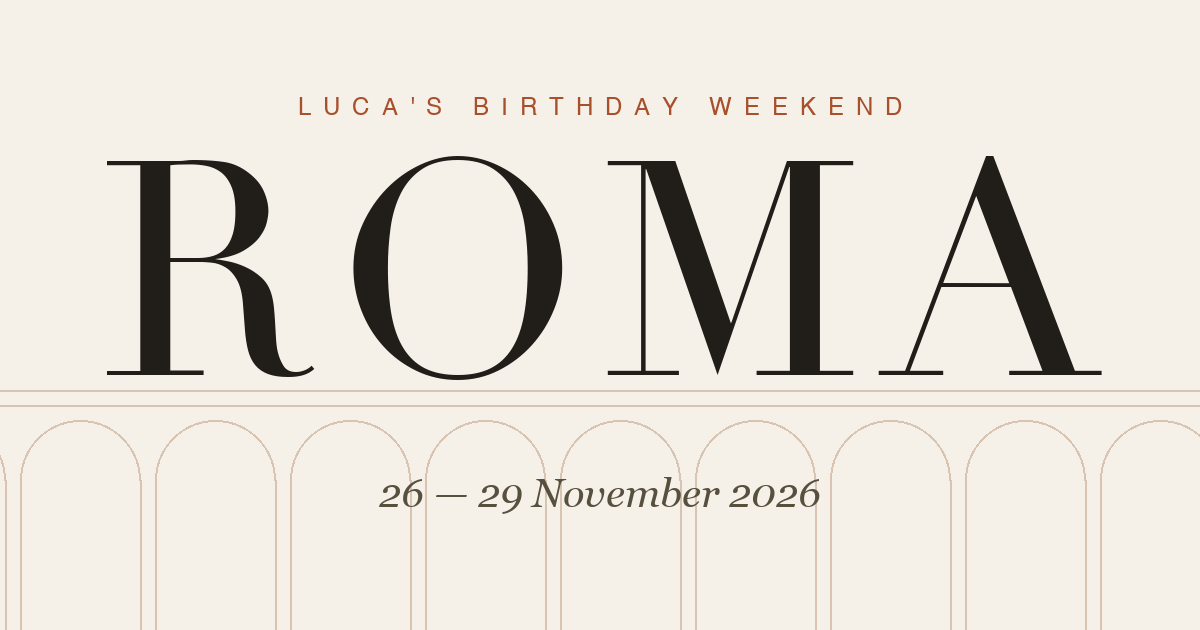
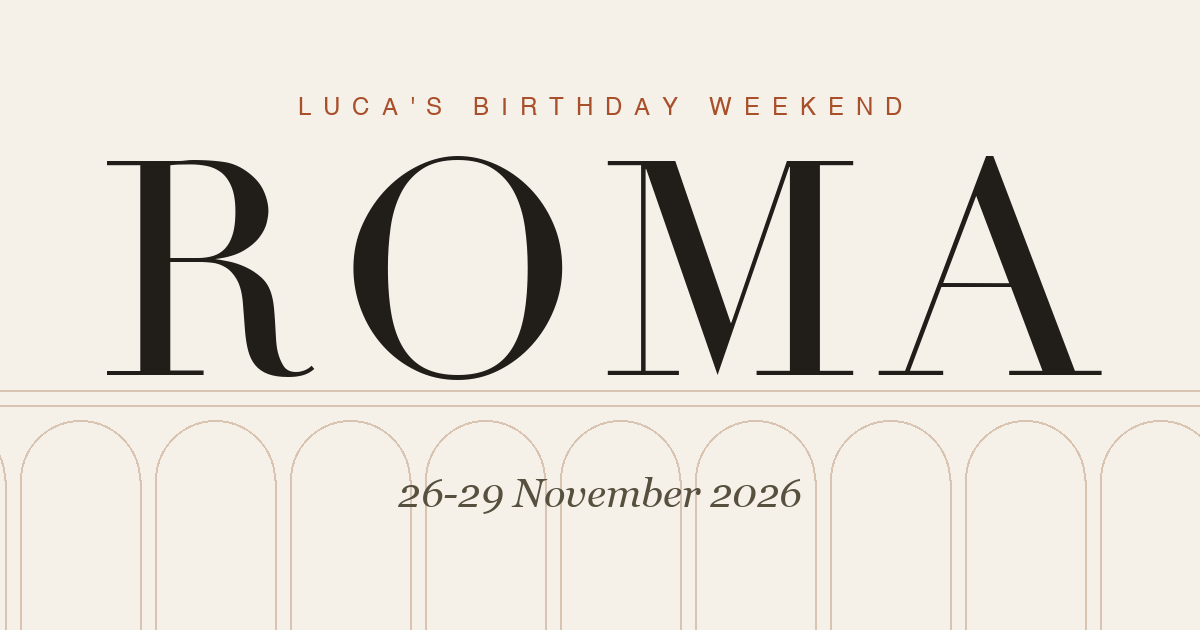
No em dashes anywhere, answer reset, hard refresh, phone-only note

Changed region(s): [[0.3083, 0.754, 0.6783, 0.8143]]

diff --git a/index.html b/index.html
@@ -4,10 +4,10 @@
 <meta charset="utf-8">
 <meta name="viewport" content="width=device-width, initial-scale=1, viewport-fit=cover">
 <title>Roma · Luca's Birthday Weekend</title>
-<meta name="description" content="Luca's birthday weekend in Rome — 26–29 November 2026. Are you in?">
+<meta name="description" content="Luca's birthday weekend in Rome, 26-29 November 2026. Are you in?">
 <meta property="og:type" content="website">
-<meta property="og:title" content="Roma — Luca's Birthday Weekend">
-<meta property="og:description" content="26–29 November 2026. Are you in?">
+<meta property="og:title" content="Roma, Luca's Birthday Weekend">
+<meta property="og:description" content="26-29 November 2026. Are you in?">
 <meta property="og:url" content="https://luca1997sb.github.io/rome-birthday/">
 <meta property="og:image" content="https://luca1997sb.github.io/rome-birthday/og.png">
 <meta property="og:image:width" content="1200">
@@ -24,7 +24,7 @@
 </head>
 <body>
 <title>Roma · Luca's Birthday Weekend</title>
-<meta name="description" content="Luca's birthday weekend in Rome — 26–29 November 2026. Details & RSVP.">
+<meta name="description" content="Luca's birthday weekend in Rome, 26-29 November 2026. Details & RSVP.">
 <style>
   :root{
     --paper:#f6f1e8;
@@ -527,7 +527,7 @@
     <a href="#program">Program</a>
     <a href="#hotels">Hotels</a>
     <a href="#info">Info</a>
-    <button class="music-link" id="musicbtn" aria-label="Play music — Sì, viaggiare by Lucio Battisti"><span class="note">♪</span> <span id="musiclabel">Play music</span></button>
+    <button class="music-link" id="musicbtn" aria-label="Play music: Sì, viaggiare by Lucio Battisti"><span class="note">♪</span> <span id="musiclabel">Play music</span></button>
     <a class="cta" href="#rsvp">RSVP</a>
   </nav>
 </header>
@@ -554,7 +554,7 @@
   <div class="kicker">You are warmly invited to</div>
   <h1><span>R</span><span>O</span><span>M</span><span>A</span></h1>
   <div class="dates">Luca's birthday weekend</div>
-  <div class="when">26 — 29 November 2026</div>
+  <div class="when">26-29 November 2026</div>
   <a class="scrollcue" href="#invito">Scroll</a>
 </div>
 
@@ -564,8 +564,8 @@
   <div class="intro-grid">
     <div class="reveal">
       <p class="lead">I'm celebrating my birthday in Rome this year, and it would be really nice if you came.</p>
-      <p>The weekend starts with a late lunch on Thursday the 26th — so if you can, arrive in time to join. We head home Sunday the 29th of November. Program and hotel recommendations will follow — for now, just let me know if you can make it.</p>
-      <p style="font-family:var(--serif);font-style:italic;font-size:1.05rem;margin-top:1.2rem">— Luca</p>
+      <p>The weekend starts with a late lunch on Thursday the 26th, so if you can, arrive in time to join. We head home Sunday the 29th of November. Program and hotel recommendations will follow. For now, just let me know if you can make it.</p>
+      <p style="font-family:var(--serif);font-style:italic;font-size:1.05rem;margin-top:1.2rem">Luca</p>
     </div>
     <div class="guest-card reveal d1">
       <h3>The table</h3>
@@ -596,7 +596,7 @@
   <h2 class="sec-title reveal">Are you <em>in?</em></h2>
   <div class="rsvp-wrap reveal">
     <h3>First, who are you?</h3>
-    <p class="sub">Pick your name, then give me a yes or a no — your answer goes straight to Luca.</p>
+    <p class="sub">Pick your name, then give me a yes or a no. Your answer goes straight to Luca.</p>
     <div class="chips" id="namechips"></div>
     <div class="yesno">
       <button class="yn yes" id="btnyes">Yes, I'm in</button>
@@ -604,7 +604,7 @@
       <button class="yn no" id="btnno">Sadly can't</button>
     </div>
     <div id="status"><span class="none">Waiting on you…</span></div>
-    <button class="applink" id="applink" hidden>Get a ping when new plans land — add the app →</button>
+    <button class="applink" id="applink" hidden>Get a ping when new plans land. Add the app →</button>
 
     <div class="tally">
       <div class="tally-t">The tally</div>
@@ -621,7 +621,7 @@
     <div class="soon reveal">
       <span class="badge dot">In the works</span>
       <h4>The program</h4>
-      <p>A few things are already certain — the rest of the schedule lands here once it's set.</p>
+      <p>A few things are already certain. The rest of the schedule lands here once it's set.</p>
       <div class="teasers">
         <span class="teaser">Golf</span>
         <span class="teaser">Padel</span>
@@ -632,7 +632,7 @@
     <div class="soon reveal d1">
       <span class="badge">Save the dates</span>
       <h4>Flights</h4>
-      <p>It all begins with a late lunch on Thursday 26 November — aim to land by early afternoon. Fly home Sunday 29 November. Flight recommendations to follow.</p>
+      <p>It all begins with a late lunch on Thursday 26 November. Aim to land by early afternoon. Fly home Sunday 29 November. Flight recommendations to follow.</p>
     </div>
   </div>
   <figure class="photo wide reveal" style="margin-top:1.2rem">
@@ -653,7 +653,7 @@
     <div class="soon reveal">
       <span class="badge dot">In the works</span>
       <h4>Recommendations</h4>
-      <p>A short list of good places to stay — central, walkable, different budgets — will appear here soon.</p>
+      <p>A short list of good places to stay will appear here soon: central, walkable, a range of budgets.</p>
     </div>
   </div>
 
@@ -661,11 +661,11 @@
     <div class="map-head">
       <div>
         <div class="map-title">Rome, <em>roughly</em></div>
-        <div class="map-sub">Where the weekend will happen — activities and hotels get pinned in orange as they're announced. Tap a dot to open it in Maps.</div>
+        <div class="map-sub">Where the weekend will happen. Activities and hotels get pinned in orange as they're announced. Tap a dot to open it in Maps.</div>
       </div>
     </div>
     <div id="leafmap">
-      <div class="fallback">The map loads on the live site — see you in Rome.</div>
+      <div class="fallback">The map loads on the live site. See you in Rome.</div>
     </div>
   </div>
 </section>
@@ -676,13 +676,13 @@
   <div class="info-grid">
     <div class="info-card reveal">
       <h4>The weather</h4>
-      <p class="hint">What 26–29 November has looked like in Rome over the last ten years.</p>
+      <p class="hint">What 26-29 November has looked like in Rome over the last ten years.</p>
       <div class="wx-row">
         <div class="wx"><div class="n">14<sup>°</sup></div><div class="l">By day</div></div>
         <div class="wx"><div class="n">7<sup>°</sup></div><div class="l">At night</div></div>
         <div class="wx"><div class="n">16:40</div><div class="l">Sunset</div></div>
       </div>
-      <p class="wx-note">Mild days, crisp evenings — and some rain fell on these dates in nine of the last ten years, so pack accordingly.</p>
+      <p class="wx-note">Mild days, crisp evenings. Some rain fell on these dates in nine of the last ten years, so pack accordingly.</p>
       <div class="wx-live">
         <div class="wx-live-t">Rome, the next 14 days</div>
         <div class="wx-strip" id="wxstrip"><span class="wx-loading">Checking the sky over Rome…</span></div>
@@ -726,7 +726,7 @@
 
 <footer>
   <div class="big">Ci vediamo a Roma.</div>
-  <div class="small">S·P·Q·R &nbsp;·&nbsp; 26 — 29 November 2026</div>
+  <div class="small">S·P·Q·R &nbsp;·&nbsp; 26-29 November 2026</div>
 </footer>
 
 <div id="musicframe" aria-hidden="true"></div>
@@ -753,6 +753,14 @@
   if (GUESTS.indexOf(guest) === -1) guest = null;
 
   function ansKey(name){ return "roma26.answer." + name; }
+
+  // one-time reset: clear any stored answers from the testing phase
+  try {
+    if (!localStorage.getItem("roma26.reset1")) {
+      GUESTS.forEach(function(n){ localStorage.removeItem(ansKey(n)); });
+      localStorage.setItem("roma26.reset1", "1");
+    }
+  } catch(e){}
   function getAnswer(){
     if (!guest) return null;
     var a = null;
@@ -803,16 +811,16 @@
     if (!guest || !getAnswer()) return;
     var a = getAnswer();
     var word = a === "yes" ? "YES" : a === "maybe" ? "MAYBE" : "NO";
-    var text = a === "yes" ? "Yes, I'm in" : a === "maybe" ? "Maybe — still sorting things out" : "Sadly can't";
+    var text = a === "yes" ? "Yes, I'm in" : a === "maybe" ? "Maybe, still sorting things out" : "Sadly can't";
     postForm({
-      _subject: "Roma 2026 RSVP — " + guest + ": " + word,
+      _subject: "Roma 2026 RSVP: " + guest + " " + word,
       name: guest,
       answer: text
     }).then(function(r){
       if (!r.ok) throw new Error();
-      statusEl.textContent += " — sent to Luca ✓";
+      statusEl.textContent += " · sent to Luca ✓";
     }).catch(function(){
-      statusEl.textContent += " — saved here, but tell Luca directly too.";
+      statusEl.textContent += " · saved here, but tell Luca directly too.";
     });
   }
 
@@ -824,7 +832,7 @@
   btnMb.addEventListener("click", function(){
     if (!guest) return needName();
     if (CONFIRMED.indexOf(guest) !== -1) {
-      statusEl.textContent = "Too late — you're already booked in.";
+      statusEl.textContent = "Too late, you're already booked in.";
       return;
     }
     setAnswer("maybe"); render(); sendRSVP();
@@ -832,7 +840,7 @@
   btnNo.addEventListener("click", function(){
     if (!guest) return needName();
     if (CONFIRMED.indexOf(guest) !== -1) {
-      statusEl.textContent = "Too late — you're already booked in.";
+      statusEl.textContent = "Too late, you're already booked in.";
       return;
     }
     setAnswer("no"); render(); sendRSVP();
@@ -883,17 +891,17 @@
     if (!guest) {
       statusEl.innerHTML = '<span class="none">Waiting on you…</span>';
     } else if (guest === "Luca") {
-      statusEl.textContent = "It's your party — you're in by default.";
+      statusEl.textContent = "It's your party, you're in by default.";
     } else if (CONFIRMED.indexOf(guest) !== -1) {
-      statusEl.textContent = guest + " — you're already confirmed. 🥂";
+      statusEl.textContent = guest + ", you're already confirmed. 🥂";
     } else if (a === "yes") {
-      statusEl.textContent = guest + " — see you in Rome. 🥂";
+      statusEl.textContent = guest + ", see you in Rome. 🥂";
     } else if (a === "maybe") {
-      statusEl.textContent = guest + " — noted, we'll hold your seat.";
+      statusEl.textContent = guest + ", noted, we'll hold your seat.";
     } else if (a === "no") {
-      statusEl.textContent = guest + " — you'll be missed. Reconsider?";
+      statusEl.textContent = guest + ", you'll be missed. Reconsider?";
     } else {
-      statusEl.innerHTML = '<span class="none">Ciao ' + guest + " — yes or no?</span>";
+      statusEl.innerHTML = '<span class="none">Ciao ' + guest + ", yes or no?</span>";
     }
   }
 
@@ -923,7 +931,7 @@
     el.innerHTML = "";
     var map = L.map(el, { scrollWheelZoom:false, zoomControl:true })
       .setView([41.8975, 12.4809], 14);
-    // on phones, one-finger drag would trap page scrolling — keep pinch-zoom only
+    // on phones, one-finger drag would trap page scrolling; keep pinch-zoom only
     if (window.matchMedia && window.matchMedia("(pointer: coarse)").matches) {
       map.dragging.disable();
     }
@@ -985,7 +993,7 @@
   /* ------- app install + push notifications ------- */
   var VAPID = "BHS03bWYOl3hiJuQsChM2bKO-j3UV0Kbw9TmGY2v15Tosl_qpFTfaHwXseTagrF5NmiN-8XxyWnx9khhArrhMvQ";
   if ("serviceWorker" in navigator) {
-    navigator.serviceWorker.register("sw.js").catch(function(){});
+    navigator.serviceWorker.register("sw.js", { updateViaCache: "none" }).catch(function(){});
   }
   // clear the app-icon badge whenever the app is opened or comes to the foreground
   function clearBadge(){
@@ -1031,7 +1039,7 @@
         reg.pushManager.subscribe({ userVisibleOnly: true, applicationServerKey: urlB64(VAPID) })
           .then(function(sub){
             postForm({
-              _subject: "Roma 2026 push sub — " + (guest || "unknown"),
+              _subject: "Roma 2026 push sub: " + (guest || "unknown"),
               name: guest || "unknown",
               subscription: JSON.stringify(sub)
             }).then(function(r){ done(r.ok ? "ok" : "err"); })
@@ -1048,26 +1056,26 @@
   function buildModalBody(){
     if (isiOS && !isStandalone) {
       mBody.innerHTML =
-        '<p>Put this page on your Home Screen and it becomes the weekend\'s app — with a gentle ping when new plans land. In <b>Safari</b>:</p>' +
+        '<p>Put this page on your Home Screen and it becomes the weekend\'s app, with a gentle ping when new plans land. In <b>Safari</b>:</p>' +
         '<ol><li>Tap <b>Share</b> at the bottom (the square with the arrow&nbsp;<span style="font-family:-apple-system">&#x2BAD;</span>)</li>' +
         '<li>Scroll down, choose <b>Add to Home Screen</b>, tap <b>Add</b></li>' +
-        '<li>Open <b>Roma 2026</b> from your Home Screen once — it will ask to allow notifications</li></ol>' +
-        '<p class="m-note">Opened this from WhatsApp? Tap <b>&#8943;</b> top-right → <b>Open in Safari</b> first. And iPhones only allow notifications for pages on the Home Screen — Apple\'s rule, not ours.</p>';
+        '<li>Open <b>Roma 2026</b> from your Home Screen once and it will ask to allow notifications</li></ol>' +
+        '<p class="m-note">Opened this from WhatsApp? Tap <b>&#8943;</b> top-right → <b>Open in Safari</b> first. And iPhones only allow notifications for pages on the Home Screen. Apple\'s rule, not ours.</p>';
       return;
     }
     var installBtn = (!isStandalone && deferredPrompt) ? '<button class="btn btn-ghost" id="minstall">Add the app</button>' : "";
     mBody.innerHTML =
       '<p>One tap and you\'ll get a gentle ping when new activities or info land here. Nothing else, no spam.</p>' +
       '<div class="m-actions"><button class="btn btn-primary" id="mpush">Enable notifications</button>' + installBtn + '</div>' +
-      '<p class="m-note">Or just check back here — everything lands on this page first.</p>';
+      '<p class="m-note">Adding to the Home Screen only works on your phone. Or just check back here, everything lands on this page first.</p>';
     var pushBtn = document.getElementById("mpush");
     pushBtn.addEventListener("click", function(){
       pushBtn.textContent = "One moment…";
       enablePush(function(state){
         pushBtn.textContent =
           state === "ok" ? "You're set ✓" :
-          state === "denied" ? "Blocked — allow in settings" :
-          state === "unsupported" ? "Not supported here" : "Didn't work — try later";
+          state === "denied" ? "Blocked. Allow it in settings" :
+          state === "unsupported" ? "Not supported here" : "Didn't work, try again later";
       });
     });
     var inst = document.getElementById("minstall");
@@ -1163,7 +1171,7 @@
       musicLabel.textContent = "Play music";
     } else {
       musicFrame.innerHTML = '<iframe src="https://www.youtube-nocookie.com/embed/U6NqD0P0eY8?autoplay=1&playsinline=1" ' +
-        'title="Sì, viaggiare — Lucio Battisti" allow="autoplay; encrypted-media"></iframe>';
+        'title="Sì, viaggiare, Lucio Battisti" allow="autoplay; encrypted-media"></iframe>';
       musicBtn.classList.add("playing");
       musicLabel.textContent = "Stop music";
     }
@@ -1198,7 +1206,7 @@
       wxStrip.innerHTML = html;
     })
     .catch(function(){
-      wxStrip.innerHTML = '<span class="wx-loading">Forecast unavailable right now — the sky over Rome is keeping its secrets.</span>';
+      wxStrip.innerHTML = '<span class="wx-loading">Forecast unavailable right now. The sky over Rome is keeping its secrets.</span>';
     });
 
   /* ------- scroll reveal ------- */